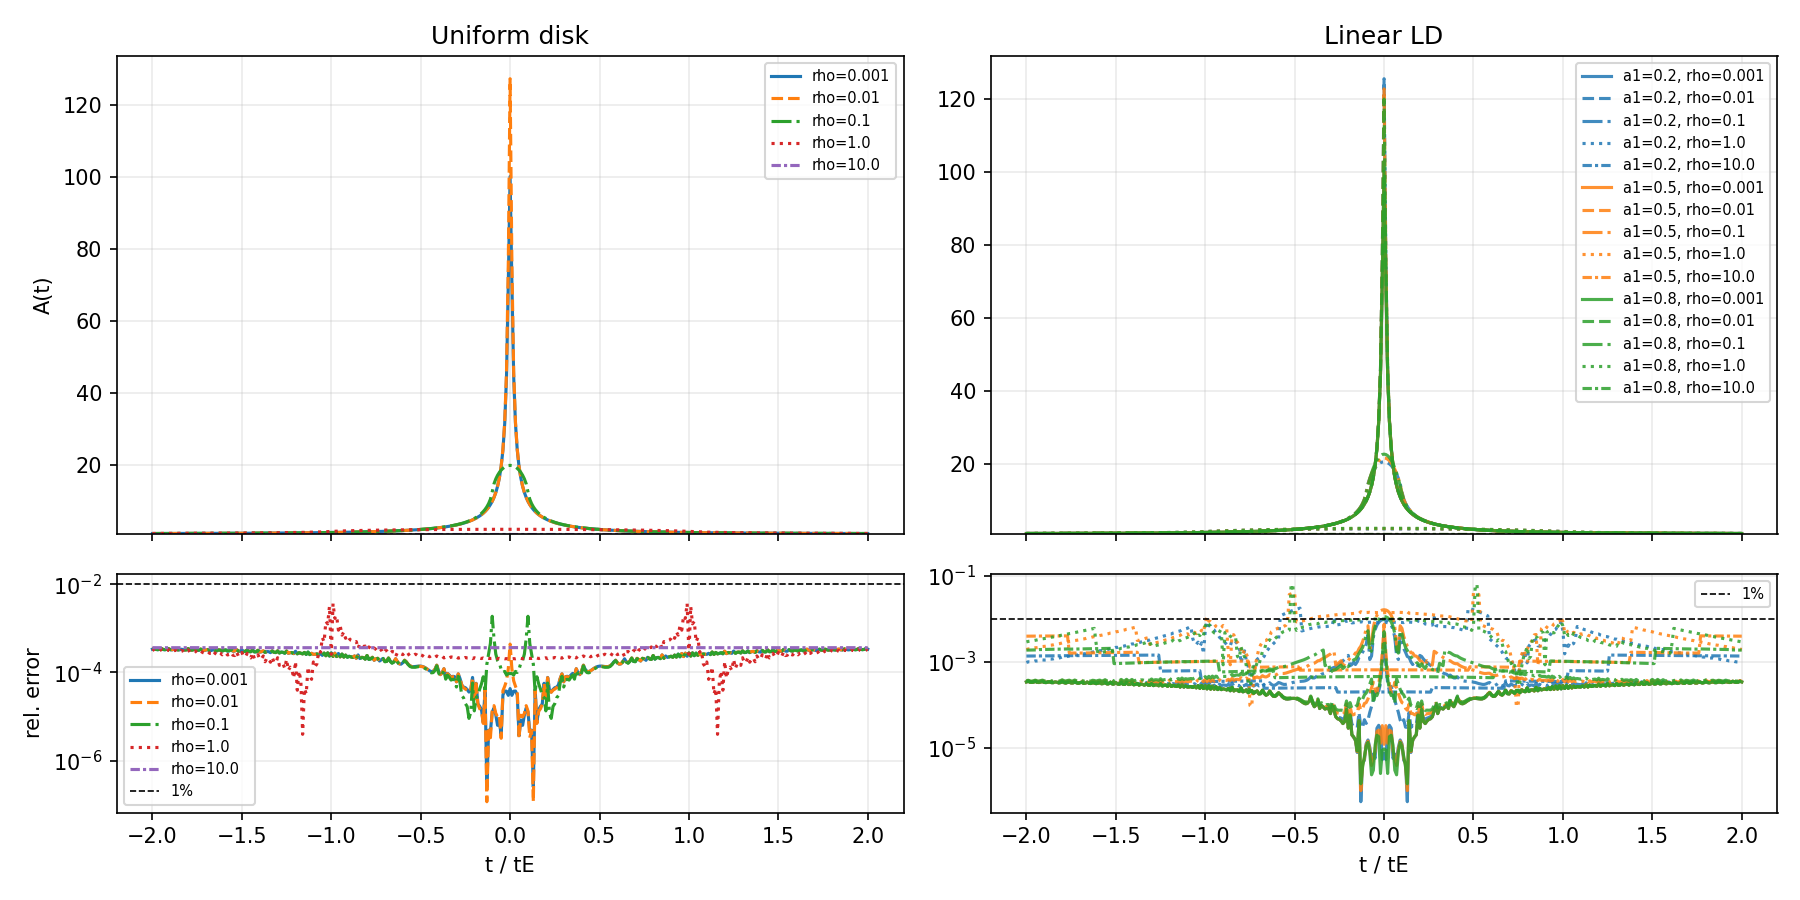
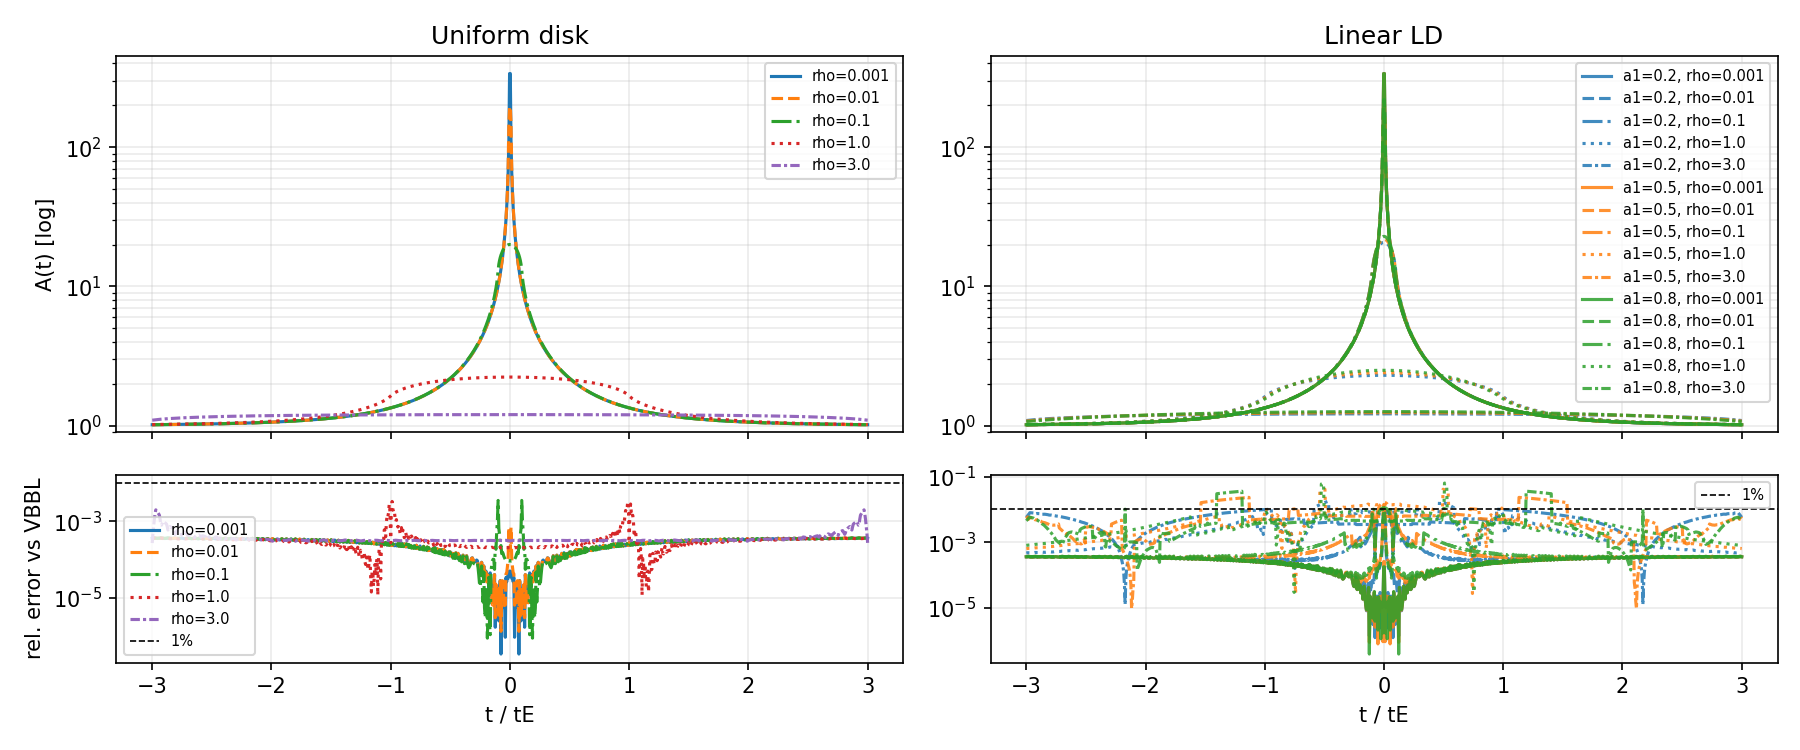
maintain around fastlens (mag_fft)

diff --git a/example/fspl_fft/compare_fspl_vbbl.py b/example/fspl_fft/compare_fspl_vbbl.py
@@ -35,7 +35,7 @@ except ImportError:
 from microjax.fastlens import fspl_disk, fspl_ld1
 
 
-def paczynski_u(t: np.ndarray, u0: float = 0.01, tE: float = 1.0) -> np.ndarray:
+def paczynski_u(t: np.ndarray, u0: float = 0.0, tE: float = 1.0) -> np.ndarray:
     """Compute dimensionless impact parameter u(t) for a single-lens trajectory."""
     tau = (t) / tE
     return np.sqrt(u0 * u0 + tau * tau)
@@ -75,10 +75,10 @@ def main():
     table_path = VBBinaryLensing.__file__.replace("__init__.py", "data/ESPL.tbl")
     vb.LoadESPLTable(table_path)
 
-    rhos = np.array([1e-3, 1e-2, 1e-1, 1.0, 10.0])
-    t = np.linspace(-2.0, 2.0, 401)  # in units of tE
+    rhos = np.array([1e-3, 1e-2, 1e-1, 1.0, 3.0])
+    t = np.linspace(-3.0, 3.0, 1000)  # in units of tE
 
-    fig, axes = plt.subplots(2, 2, figsize=(12, 6), gridspec_kw={"height_ratios": [2.0, 1.0]}, sharex="col")
+    fig, axes = plt.subplots(2, 2, figsize=(12, 5), gridspec_kw={"height_ratios": [2.0, 1.0]}, sharex="col")
 
     # Uniform disk
     mag_disk = fspl_disk()
@@ -87,11 +87,11 @@ def main():
     linestyles = ["-", "--", "-.", ":", (0, (3, 1, 1, 1))]
     for i, rho in enumerate(rhos):
         ls = linestyles[i % len(linestyles)]
-        ax_mag_d.plot(t, A_d[i], label=f"rho={rho}", ls=ls)
+        ax_mag_d.semilogy(t, A_d[i], label=f"rho={rho}", ls=ls)
         ax_res_d.semilogy(t, R_d[i], label=f"rho={rho}", ls=ls)
     ax_mag_d.set_title("Uniform disk")
-    ax_mag_d.set_ylabel("A(t)")
-    ax_res_d.set_ylabel("rel. error")
+    ax_mag_d.set_ylabel("A(t) [log]")
+    ax_res_d.set_ylabel("rel. error vs VBBL")
 
     # Linear limb darkening (multiple a1)
     a1_list = [0.2, 0.5, 0.8]
@@ -106,7 +106,7 @@ def main():
         max_t_ld = max(max_t_ld, t_ld)
         for i, rho in enumerate(rhos):
             ls = linestyles[i % len(linestyles)]
-            ax_mag_l.plot(t, A_l[i], color=c, alpha=0.85, ls=ls, label=f"a1={a1}, rho={rho}")
+            ax_mag_l.semilogy(t, A_l[i], color=c, alpha=0.85, ls=ls, label=f"a1={a1}, rho={rho}")
             ax_res_l.semilogy(t, R_l[i], color=c, alpha=0.85, ls=ls)
         # store times tagged by a1
         per_rho_ld_all.extend([(a1, rho, tref, tfspl) for (rho, tref, tfspl) in per_rho_ld])

diff --git a/example/fspl_fft/README.md b/example/fspl_fft/README.md
@@ -30,7 +30,7 @@ VBBL are printed in milliseconds.
 - ρ grid: `1e-3, 1e-2, 1e-1, 1.0, 10.0`
 - Time grid: `t/tE` in `[-2, 2]` (401 points), u(t)=sqrt(u0^2 + (t/tE)^2), u0=0.1
 - Uses default FSPL settings (`N_fft=2048`, `fft_logumin=-6`, `fft_logumax=3`).
-- Plots A(t) (top) and relative residuals (bottom, log scale); 1% line shown.
+- Plots A(t) (top, log y) and relative residuals vs VBBL (bottom, log y); 1% line shown.
 - Logs per-ρ runtimes (ms) for VBBL and FSPL and their ratios.
 
 ## Sample output
